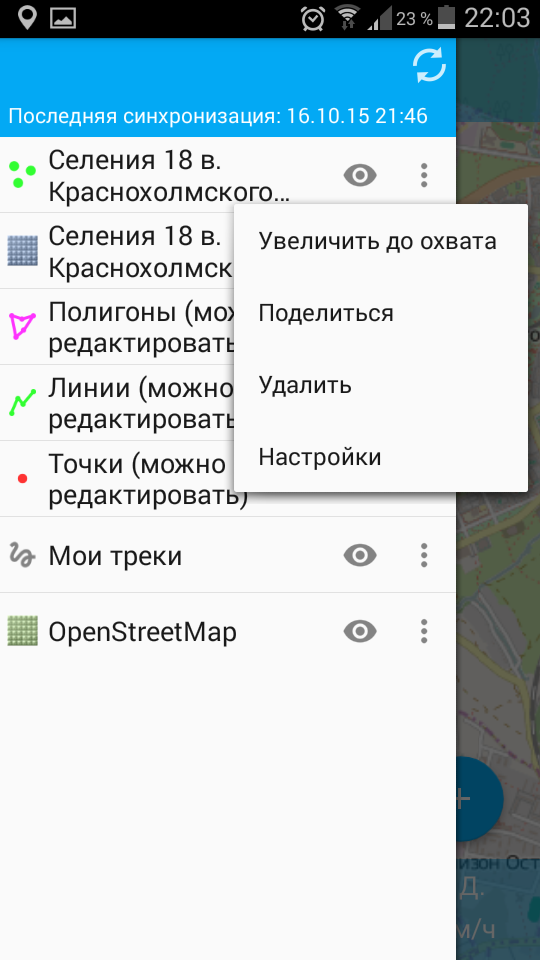
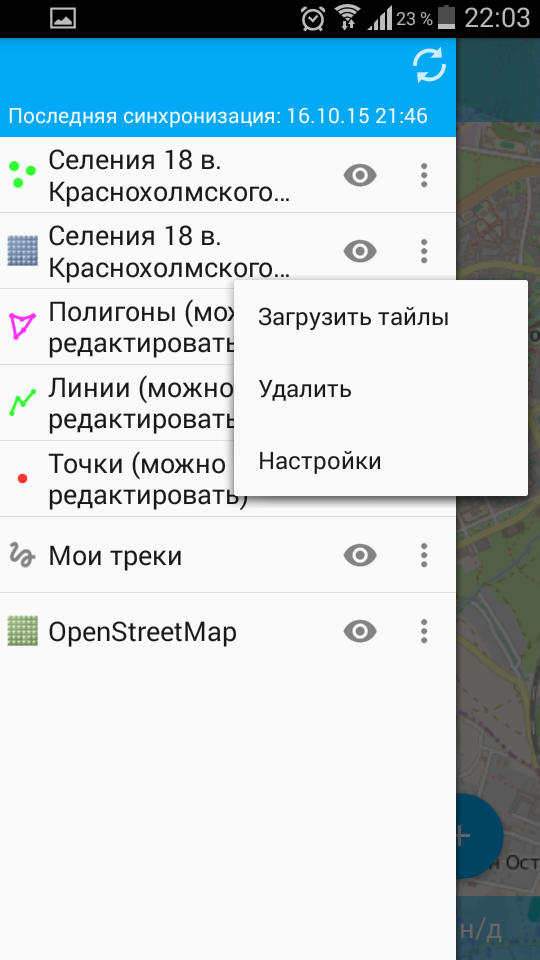
добавлен инфо о меню настроек растрового слоя

diff --git a/source/layer_settings.rst b/source/layer_settings.rst
@@ -7,21 +7,23 @@
 
 .. versionadded:: 2.2
 
+Карта представляет собой набор растровых и векторных слоев. Порядок и видимость 
+слоев настраивается при помощи дерева слоев.
 В пользовательском интерфейсе программы имеется выезжающая панель дерева слоев, 
 которая отображает состав карты в виде набора слоев, выполняет навигацию по карте 
 (увеличение, уменьшение, перемещение), создает и модифицирует растровые и 
 векторные слои, а также модицифирует данные этих слоев при помощи настраивемых форм ввода.
 Дополнительные операции над слоями вынесены в отдельное меню слоя. Дерево слоев 
 представлено на рисунке :numref:`layer_tree_pic`.
-Контекстное меню слоя зависит от его типа. Для векторного слоя меню имеет следующий состав (см. :numref:`ngmobile_raster_layer_menu_pic`):
+Контекстное меню слоя зависит от его типа. Для векторного слоя меню имеет следующий состав (см. :numref:`ngmobile_vector_layer_menu_pic`):
 
 1. Увеличить до охвата
 2. Поделиться
 3. Удалить
 4. Настройки
 
-.. figure:: _static/raster_layer_menu.png
-   :name: ngmobile_raster_layer_menu_pic
+.. figure:: _static/vector_layer_menu.png
+   :name: ngmobile_vector_layer_menu_pic
    :align: center
    :height: 10cm
 
@@ -58,5 +60,19 @@
 Третий блок настроек содержит информацию о настройках отображения слоя и допускает 
 возможность редактирования цвета отображения слоя, а также возможность отмены внесенных изменений.  
 
+Контекстное меню растрового слоя меню имеет следующий состав (см. :numref:`ngmobile_raster_layer_menu_pic`):
 
+1. Загрузить тайлы
+2. Удалить
+3. Настройки
 
+.. figure:: _static/raster_layer_menu.png
+   :name: ngmobile_raster_layer_menu_pic
+   :align: center
+   :height: 10cm
+   
+   Окно меню для растрового слоя 
+
+Окно меню настроек растрового слоя
+----------------------------------
+Окно настроек для модификации векторного слоя имеет следующий вид  (см. :numref:`ngmobile_preferenсes_window_vector_layer_pic`):
